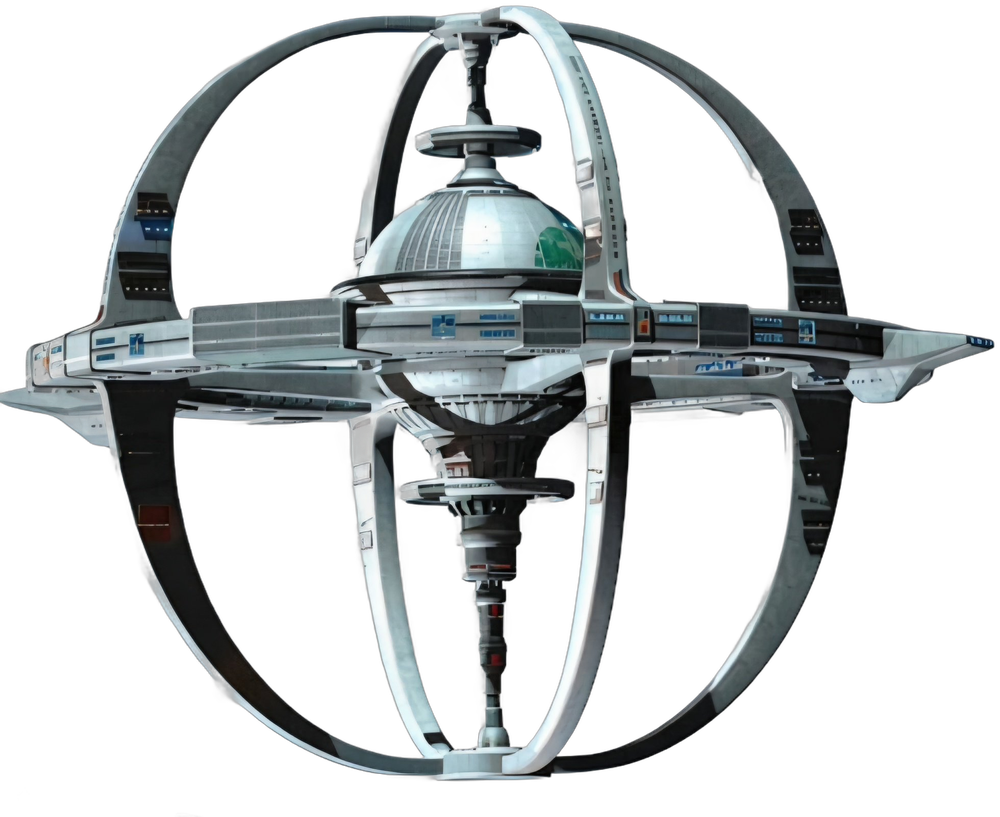
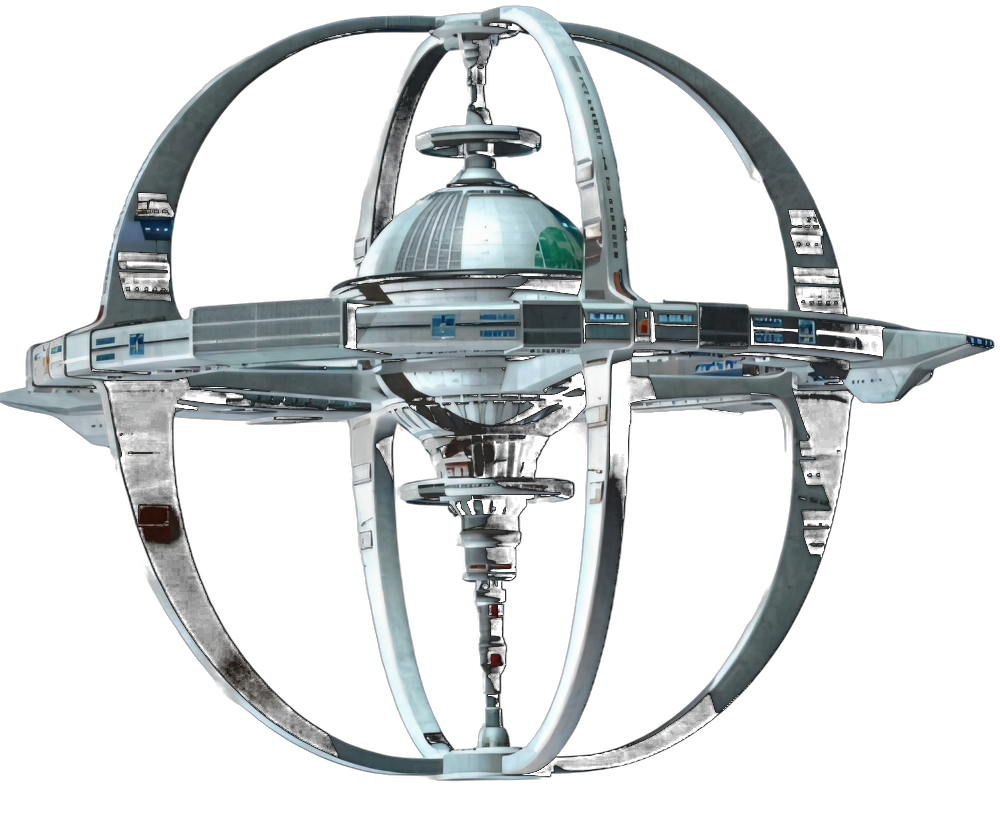
v2.87: fix DS9/Shipyard black-spot cutouts + McKinley ghost cutout (re-cut from source); Build page split into Starships/Stations with picture cards + Details dropdowns; Memorial flavor text removed, Lost in Time renamed Temporal Anomalies

diff --git a/index.html b/index.html
@@ -3556,7 +3556,7 @@ function migrateSave(g){
       if(!o.accolades.some(a=>a.n===ad[0]))o.accolades.push({n:ad[0],d:ad[1]});
     });
   });
-  // v1.3: era rule — the 15 headliners + the Enterprise pair return to Lost-to-Time unless genuinely rescued via temporal extraction.
+  // v1.3: era rule — the 15 headliners + the Enterprise pair return to Temporal Anomalies unless genuinely rescued via temporal extraction.
   // Runs BEFORE the 2379-correctness audit so they are cleanly removed (not marked dead/duplicated).
   const ERA_REVERT=MOVED_TO_ACTIVE.concat(["Phlox","Thy'lek Shran"]);
   try{
@@ -3573,7 +3573,7 @@ function migrateSave(g){
       });
       g.officers=(g.officers||[]).filter(function(x){return !goneIds[x.id];});
       g.memorial=(g.memorial||[]).filter(function(m){return !(m&&ERA_REVERT.indexOf(m.name)>=0&&m.cause&&(m.cause.indexOf("Lost to time")===0||m.cause.indexOf("Lost to history")===0));});
-      log("personnel","Era correction: "+gone.map(function(o){return o.name;}).join(", ")+" returned to their own times — find them under Lost to Time in the Memorial tab.");
+      log("personnel","Era correction: "+gone.map(function(o){return o.name;}).join(", ")+" returned to their own times — find them under Temporal Anomalies in the Memorial tab.");
     }
   }catch(err){}
   // 2379-correctness: personnel from eras long past are listed as lost to time
@@ -9683,24 +9683,53 @@ function renderBuild(){
   if(legacyFrom){
     const ls=ship(legacyFrom);
     if(ls&&(ls.mothballed||ls.status==="museum")){
-      h+='<div class="card" style="border:1px solid var(--teal)"><h3>Legacy build</h3><p class="dim">Commissioning the successor to '+esc(ls.name)+' ('+esc(ls.registry)+'). She keeps the name — her registry takes the next letter: <b>'+esc(nextRegistry(ls.registry))+'</b>. Pick a class below — you can still edit the name and registry before the keel is laid.</p><div class="btnRow"><button class="btn small ghost" onclick="legacyFrom=null;render()">Cancel legacy</button></div></div>';
+      h+='<div class="card" style="border:1px solid var(--teal)"><h3>Legacy build</h3><p class="dim">Commissioning the successor to '+esc(ls.name)+' ('+esc(ls.registry)+'). She keeps the name \u2014 her registry takes the next letter: <b>'+esc(nextRegistry(ls.registry))+'</b>. Pick a class below \u2014 you can still edit the name and registry before the keel is laid.</p><div class="btnRow"><button class="btn small ghost" onclick="legacyFrom=null;render()">Cancel legacy</button></div></div>';
     }else legacyFrom=null;
+  }
+  h+='<div class="cmdsubseg" style="margin:0 0 10px;">'+
+    '<button class="btn small'+(buildPage==="ships"?" on":"")+'" onclick="buildPage=\'ships\';render()">Starships</button>'+
+    '<button class="btn small'+(buildPage==="stations"?" on":"")+'" onclick="buildPage=\'stations\';render()">Stations</button></div>';
+  if(buildPage==="stations"){
+    const stBuilding=G.stations.filter(s=>s.status==="construction").length;
+    h+='<div class="card"><h3>Construct Station</h3><div class="kv"><span class="k">Construction crews</span><span class="v">'+stBuilding+' / 2 underway</span></div></div>';
+    Object.keys(STATION_DEFS).forEach(k=>{
+      const d=STATION_DEFS[k];if(d.unique)return;
+      const afford=G.credits>=d.cr&&G.dilithium>=d.dl;
+      let sWhy="";
+      if(!afford){
+        const bits=[];
+        if(G.credits<d.cr)bits.push("need "+fmt(d.cr-G.credits)+" more CR");
+        if(G.dilithium<d.dl)bits.push("need "+fmt(d.dl-G.dilithium)+" more dilithium");
+        sWhy="Cannot afford \u2014 "+bits.join(", ");
+      }else if(stBuilding>=2){
+        sWhy="Construction crews at capacity \u2014 finish a project first (max 2)";
+      }
+      const detKey="bld-"+k,detOpen=stnCardOpen.has(detKey);
+      h+='<div class="card shipCard">'+
+        '<div class="shipMedia stnMedia">'+stationPic(k,true)+'</div>'+
+        '<div class="shipCardNm"><span class="shipCardNmTxt">'+d.name+'</span>'+
+        '<button class="shipDetBtn" id="stnDetBtn-'+detKey+'" onclick="toggleStnDet(\''+detKey+'\',event)">'+(detOpen?'Details \u25b4':'Details \u25be')+'</button></div>'+
+        '<div class="shipDet'+(detOpen?' open':'')+'" id="stnDet-'+detKey+'">'+
+        '<div class="sub2">'+fmt(d.cr)+' CR \u00b7 '+fmt(d.dl)+' DL \u00b7 '+d.days+' days \u00b7 Upkeep '+d.upkeep+'/d</div>'+
+        '<div class="sub2" style="color:var(--teal)">'+esc(d.desc)+'</div>'+
+        (sWhy?'<div class="sub2" style="color:var(--red)">'+esc(sWhy)+'</div>':"")+
+        '<div class="btnRow"><button class="btn small violet" '+(afford&&stBuilding<2?"":"disabled")+' onclick="uiBuildStation(\''+k+'\')">Build</button></div>'+
+        '</div></div>';
+    });
+    return h;
   }
   h+='<div class="card"><h3>Shipyard Capacity</h3>'+
     '<div class="kv"><span class="k">Free yard slots</span><span class="v">'+yards.length+' / '+activeStations("shipyard").length+'</span></div>'+
-    '<div class="kv"><span class="k">Build-time modifier</span><span class="v">×'+buildTimeMod().toFixed(2)+'</span></div>'+
+    '<div class="kv"><span class="k">Build-time modifier</span><span class="v">\u00d7'+buildTimeMod().toFixed(2)+'</span></div>'+
     '</div>';
-  let qh='';
   if(G.builds.length){
-    qh+='<div class="card"><h3>Construction Queue</h3>';
+    h+='<div class="card"><h3>Construction Queue</h3>';
     G.builds.forEach(b=>{const c=SHIP_CLASSES[b.cls];
-      qh+='<div class="kv"><span class="k">'+esc(b.name)+' ('+c.name+')</span><span class="v">'+b.daysLeft+'d · '+(b.yardId?(station(b.yardId)||{name:"?"}).name:"?")+'</span></div>'+
+      h+='<div class="kv"><span class="k">'+esc(b.name)+' ('+c.name+')</span><span class="v">'+b.daysLeft+'d \u00b7 '+(b.yardId?(station(b.yardId)||{name:"?"}).name:"?")+'</span></div>'+
       '<div class="prog"><i style="width:'+Math.round((1-b.daysLeft/b.total)*100)+'%"></i></div>'+
       (b.id==="titan0"?"":'<div class="btnRow"><button class="btn small ghost" onclick="uiCancelBuild(\'ship\',\''+b.id+'\')">Cancel build</button></div>');});
-    qh+='</div>';
+    h+='</div>';
   }
-  h+=qh;
-  h+='<div class="card"><h3>Commission Starship</h3>';
   Object.keys(SHIP_CLASSES).forEach(k=>{
     const c=SHIP_CLASSES[k];if(c.museumOnly||c.futureOnly)return;
     const u=shipUnlocked(k);
@@ -9713,40 +9742,25 @@ function renderBuild(){
       const bits=[];
       if(G.credits<c.cr)bits.push("need "+fmt(c.cr-G.credits)+" more CR");
       if(G.dilithium<c.dl)bits.push("need "+fmt(c.dl-G.dilithium)+" more dilithium");
-      blockWhy="Cannot afford — "+bits.join(", ");
+      blockWhy="Cannot afford \u2014 "+bits.join(", ");
     }else if(u.ok&&!yards.length){
-      blockWhy="No free shipyard — every yard is busy";
+      blockWhy="No free shipyard \u2014 every yard is busy";
     }
-    h+='<div class="row">'+shipPic(k)+'<div class="grow"><div class="nm">'+c.name+'-class '+(u.ok?"":'<span class="badge bad">LOCKED</span>')+'</div>'+
-      '<div class="sub2">'+fmt(c.cr)+' CR · '+fmt(c.dl)+' DL · '+days+' days · Hull '+c.hull+' · Tac '+c.tac+' · Sci '+c.sci+' · Warp '+c.speed+' · '+c.slots+' officers</div>'+
+    const detKey="bld-"+k,detOpen=shipCardOpen.has(detKey);
+    h+='<div class="card shipCard">'+
+      '<div class="shipMedia">'+shipPic(k,true)+'</div>'+
+      '<div class="shipCardNm"><span class="shipCardNmTxt">'+c.name+'-class'+(u.ok?"":' <span class="badge bad">LOCKED</span>')+'</span>'+
+      '<button class="shipDetBtn" id="shipDetBtn-'+detKey+'" onclick="toggleShipDet(\''+detKey+'\',event)">'+(detOpen?'Details \u25b4':'Details \u25be')+'</button></div>'+
+      '<div class="shipDet'+(detOpen?' open':'')+'" id="shipDet-'+detKey+'">'+
+      '<div class="sub2">'+fmt(c.cr)+' CR \u00b7 '+fmt(c.dl)+' DL \u00b7 '+days+' days \u00b7 Hull '+c.hull+' \u00b7 Tac '+c.tac+' \u00b7 Sci '+c.sci+' \u00b7 Warp '+c.speed+' \u00b7 '+c.slots+' officers</div>'+
       (c.special?'<div class="sub2" style="color:var(--teal)">'+esc(c.special)+'</div>':"")+
       (!u.ok?'<div class="sub2" style="color:var(--red)">'+esc(u.why)+'</div>':"")+
-      (blockWhy?'<div class="sub2" style="color:var(--red)">'+esc(blockWhy)+'</div>':"")+'</div>'+
-      (rKey&&!u.ok
-        ?'<button class="btn small violet" '+((!R.active&&!R.done[rKey]&&G.credits>=RESEARCH_DEFS[rKey].cr&&G.dilithium>=RESEARCH_DEFS[rKey].dl)?"":"disabled")+' onclick="uiStartResearch(\''+rKey+'\')">Research</button></div>'
-        :'<button class="btn small" '+(u.ok&&afford&&yards.length?"":"disabled")+' onclick="uiBuildShip(\''+k+'\')">Build</button></div>');
+      (blockWhy?'<div class="sub2" style="color:var(--red)">'+esc(blockWhy)+'</div>':"")+
+      '<div class="btnRow">'+(rKey&&!u.ok
+        ?'<button class="btn small violet" '+((!R.active&&!R.done[rKey]&&G.credits>=RESEARCH_DEFS[rKey].cr&&G.dilithium>=RESEARCH_DEFS[rKey].dl)?"":"disabled")+' onclick="uiStartResearch(\''+rKey+'\')">Research</button>'
+        :'<button class="btn small" '+(u.ok&&afford&&yards.length?"":"disabled")+' onclick="uiBuildShip(\''+k+'\')">Build</button>')+'</div>'+
+      '</div></div>';
   });
-  h+='</div><div class="card"><h3>Construct Station</h3>';
-  const stBuilding=G.stations.filter(s=>s.status==="construction").length;
-  Object.keys(STATION_DEFS).forEach(k=>{
-    const d=STATION_DEFS[k];if(d.unique)return;
-    const afford=G.credits>=d.cr&&G.dilithium>=d.dl;
-    let sWhy="";
-    if(!afford){
-      const bits=[];
-      if(G.credits<d.cr)bits.push("need "+fmt(d.cr-G.credits)+" more CR");
-      if(G.dilithium<d.dl)bits.push("need "+fmt(d.dl-G.dilithium)+" more dilithium");
-      sWhy="Cannot afford — "+bits.join(", ");
-    }else if(stBuilding>=2){
-      sWhy="Construction crews at capacity — finish a project first (max 2)";
-    }
-    h+='<div class="row">'+stationPic(k)+'<div class="grow"><div class="nm">'+d.name+'</div>'+
-      '<div class="sub2">'+fmt(d.cr)+' CR · '+fmt(d.dl)+' DL · '+d.days+' days · Upkeep '+d.upkeep+'/d</div>'+
-      '<div class="sub2" style="color:var(--teal)">'+esc(d.desc)+'</div>'+
-      (sWhy?'<div class="sub2" style="color:var(--red)">'+esc(sWhy)+'</div>':"")+'</div>'+
-      '<button class="btn small violet" '+(afford&&stBuilding<2?"":"disabled")+' onclick="uiBuildStation(\''+k+'\')">Build</button></div>';
-  });
-  h+='</div>';
   return h;
 }
 function nextRegistry(reg){
@@ -9775,7 +9789,7 @@ function nextRegistry(reg){
 function uiLegacyShip(id){
   const s=ship(id);
   if(!s||!(s.mothballed||s.status==="museum")){toast("Only mothballed or museum ships can found a legacy line.");return;}
-  legacyFrom=id;closeModal();setTab("build");
+  legacyFrom=id;buildPage="ships";closeModal();setTab("build");
   toast("Choose a class for "+s.name+"'s successor.");
 }
 function uiTransferCrew(newId){ // v2.42: one-tap crew move from the legacy predecessor
@@ -10383,7 +10397,7 @@ function renderMemorial(){
   const entry=(m,sub,sec,oi)=>'<div class="row" data-search="'+dsOf(m)+'" data-sec="'+sec+'" style="padding:6px;'+(oi>=0?'cursor:pointer;':'cursor:default;')+'"'+(oi>=0?' onclick="fallenModal('+oi+')"':"")+'>'+faceImg(m,"pfaceSm")+'<div class="grow"><div class="nm">† '+esc(m.name)+'</div>'+(sub?'<div class="sub2">'+esc(sub)+'</div>':"")+'<div class="sub2 dim">'+esc((m.lost==="decommissioned"?"Decommissioned":"Lost in service")+" — "+m.cause)+' · Stardate '+sdStr(m.sd)+'</div>'+(oi>=0?'<div style="margin-top:4px;">'+fallenBadge(m)+'</div>':"")+'</div></div>';
   const sentry=(m,si)=>'<div class="row" data-search="'+dsOf(m)+'" data-sec="lost" style="padding:6px;cursor:pointer;" onclick="tributeModal('+si+')">'+faceImg(m,"pfaceSm")+'<div class="grow"><div class="nm">† '+esc(m.name)+'</div><div class="sub2">'+esc(m.rank+" · "+m.species)+'</div><div class="sub2 dim">'+esc(m.cause)+' · '+esc(m.when)+'</div><div style="margin-top:4px;">'+tributeBadge(m)+'</div></div></div>';
   if(lostShow==="SHIPS")lostShow="all";
-  let h='<div class="card"><h3>Memorial</h3><p class="dim">"They are gone, but their light travels on." — In honored memory of all who served.</p>'+
+  let h='<div class="card">'+
     '<label>Search</label><input type="search" placeholder="Search the memorial…" oninput="liveSearch(this,\'memList\')"></div>'+
     '<div class="cmdsubseg" style="margin:0 0 10px;">'+
     '<button class="btn small'+(memTab==="personnel"?" on":"")+'" onclick="memTab=\'personnel\';render()">Personnel</button>'+
@@ -10402,9 +10416,9 @@ function renderMemorial(){
     const lostList=MEMORIAL_LOST.map((l,i)=>({l:l,i:i})).filter(o=>lostShow==="all"||o.l.show===lostShow);
     const showFallen=lostShow==="all";
     const fallenRows=showFallen?MEMORIAL_STATIC.map(sentry).join("")+offs.map((m,i)=>entry(m,m.rank+" · "+m.species,"lost",i)).join(""):"";
-    const lostTitle=showFallen?("◷ Lost in Time ("+(offs.length+MEMORIAL_STATIC.length+MEMORIAL_LOST.length)+")"):("◷ Lost in Time — "+LOST_SHOWS.filter(s=>s[0]===lostShow)[0][1]+" ("+lostList.length+" of "+MEMORIAL_LOST.length+")");
+    const lostTitle=showFallen?("◷ Temporal Anomalies ("+(offs.length+MEMORIAL_STATIC.length+MEMORIAL_LOST.length)+")"):("◷ Temporal Anomalies — "+LOST_SHOWS.filter(s=>s[0]===lostShow)[0][1]+" ("+lostList.length+" of "+MEMORIAL_LOST.length+")");
     portraitTabForce=true;
-    h+='<div class="card" data-seccard="lost"><h3>'+lostTitle+'</h3><p class="dim">Gone, but their light travels on — whether fallen in the line of duty or lost to the currents of time. Tap a name for their service record, then <b>Temporal Extraction</b> — 250 prestige + 100 dilithium, 85% odds, 45-day array cooldown.</p>'+lostPills+fallenRows+lostList.map(o=>lostEntry(o.l,o.i,"lost")).join("")+'</div>';
+    h+='<div class="card" data-seccard="lost"><h3>'+lostTitle+'</h3>'+lostPills+fallenRows+lostList.map(o=>lostEntry(o.l,o.i,"lost")).join("")+'</div>';
     portraitTabForce=false;
   }
   h+='</div><div id="memListNoRes" style="display:none;"><div class="card"><p class="dim">No matching entries in the memorial.</p></div></div>';
@@ -10417,6 +10431,7 @@ let shipQuad="all";
 let stationQuad="all";
 let lostShow="all";
 let memTab="personnel";
+let buildPage="ships";
 let legacyFrom=null;
 let portraitTabForce=false;
 /* ================= CAPTAIN'S LOG ================= */
@@ -14870,7 +14885,7 @@ window.onload=function(){
 <aside id="menuDrawer">
   <div id="drawerHead"><h2>Menu</h2><button id="drawerClose" onclick="closeTabMenu()" aria-label="Close menu">&times;</button></div>
   <div id="menuList"></div>
-  <div style="text-align:center;color:#5a6b7d;font-size:11px;padding:14px 0 8px;opacity:.7;">v2.86</div>
+  <div style="text-align:center;color:#5a6b7d;font-size:11px;padding:14px 0 8px;opacity:.7;">v2.87</div>
   <div style="text-align:center;color:#5a6b7d;font-size:11px;padding:0 0 10px;opacity:.7;">Ship profile artwork: <a href="https://www.ex-astris-scientia.org/fleet-charts.htm" target="_blank" style="color:#7d92ad;text-decoration:none;">Ex Astris Scientia</a></div>
 </aside>
 <script>if("serviceWorker" in navigator){navigator.serviceWorker.register("sw.js").then(function(r){r.addEventListener("updatefound",function(){var w=r.installing;w.addEventListener("statechange",function(){if(w.state==="activated"&&navigator.serviceWorker.controller){try{showUpdateBanner();}catch(e){}}});});});}</script>

diff --git a/sw.js b/sw.js
@@ -1,4 +1,4 @@
-const C = 'stfc-v2.86';
+const C = 'stfc-v2.87';
 self.addEventListener('install', e => {
   e.waitUntil(caches.open(C).then(c => c.addAll(['./', 'index.html', 'manifest.json'])).then(() => self.skipWaiting()));
 });
